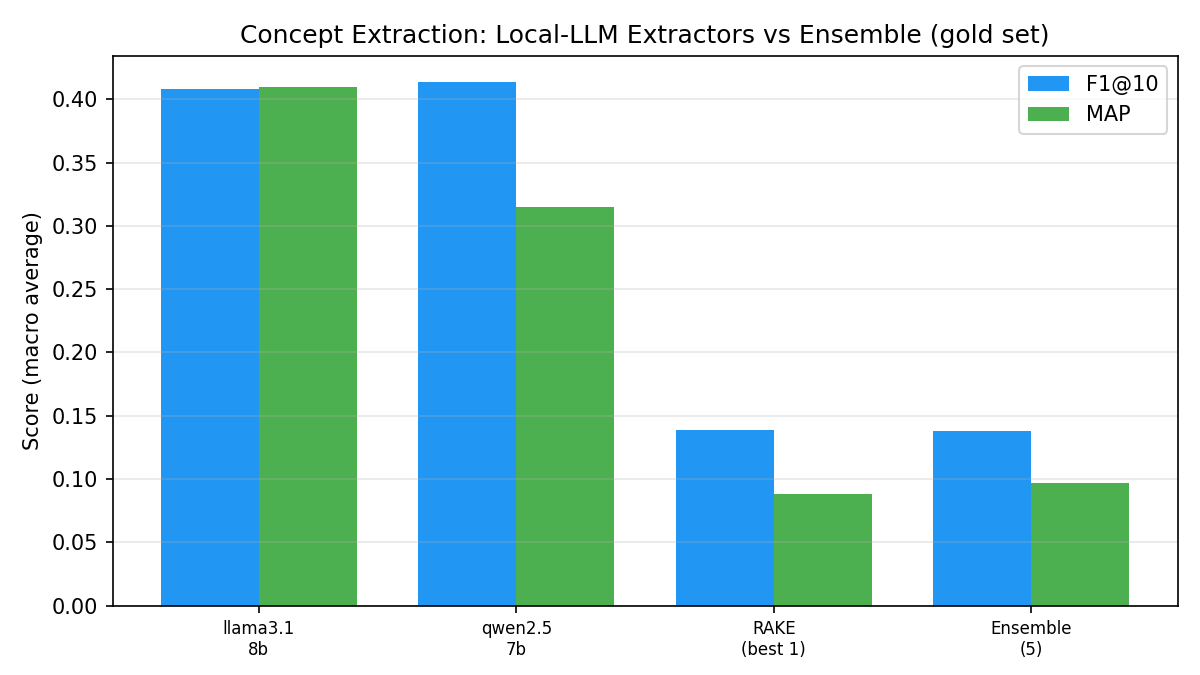
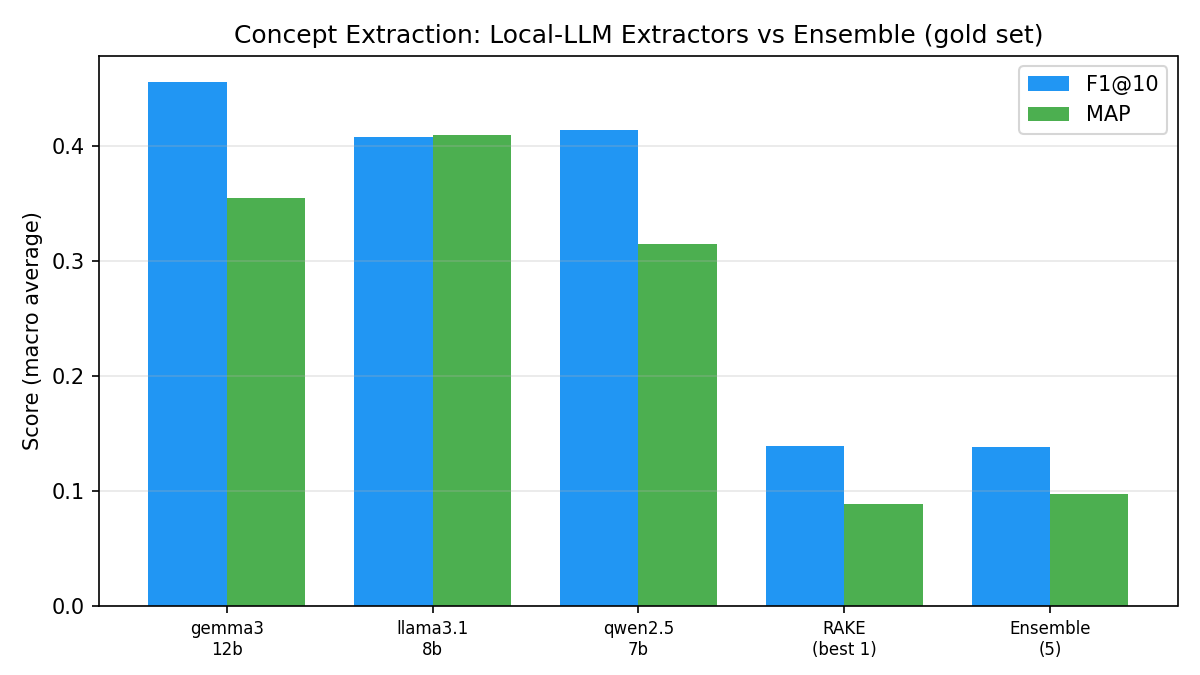
Add gemma3 comparison, filter-ablation flag, DB-namespaced graph cache, and mypy fixes

diff --git a/scripts/run_nlp_pipeline.py b/scripts/run_nlp_pipeline.py
@@ -122,13 +122,16 @@ def run_pipeline(top_n: int = 20) -> dict:
     return results
 
 
-def run_week2_pipeline(top_n: int = 20, enable_llm: bool = False) -> dict:
+def run_week2_pipeline(
+    top_n: int = 20, enable_llm: bool = False, specificity_filter: bool = True
+) -> dict:
     """Full Week-2 pipeline: 5 extractors + SBERT canonicalization.
 
     With ``enable_llm`` a sixth local-LLM extractor is added (requires Ollama).
+    ``specificity_filter=False`` disables the generic-term filter (for ablation).
     """
     from curriculum_mapper.nlp.pipeline import NLPPipeline
-    pipeline = NLPPipeline(enable_llm=enable_llm)
+    pipeline = NLPPipeline(enable_llm=enable_llm, apply_specificity_filter=specificity_filter)
     return pipeline.run(top_n=top_n)
 
 
@@ -138,6 +141,8 @@ def main() -> None:
                         help="Use full Week-2 pipeline (KeyBERT+BERTopic+canonicalization)")
     parser.add_argument("--llm", action="store_true",
                         help="Add the optional local-LLM extractor (requires Ollama)")
+    parser.add_argument("--no-specificity-filter", action="store_true",
+                        help="Disable the generic-term specificity filter (for ablation)")
     parser.add_argument("--top-n", type=int, default=20, help="Top-N per extractor")
     parser.add_argument("--verbose", action="store_true")
     args = parser.parse_args()
@@ -147,7 +152,10 @@ def main() -> None:
 
     if args.week2:
         logger.info("Running Week-2 pipeline (all 5 extractors + canonicalization)…")
-        results = run_week2_pipeline(top_n=args.top_n, enable_llm=args.llm)
+        results = run_week2_pipeline(
+            top_n=args.top_n, enable_llm=args.llm,
+            specificity_filter=not args.no_specificity_filter,
+        )
     else:
         logger.info("Running Week-1 baseline pipeline (TF-IDF + RAKE + TextRank)…")
         results = run_pipeline(top_n=args.top_n)

diff --git a/tests/unit/test_llm_extractor.py b/tests/unit/test_llm_extractor.py
@@ -106,3 +106,44 @@ class TestLLMCache:
         assert [t for t, _ in out1] == ["hash table", "b tree"]
         assert out1 == out2
         assert client.calls == 1  # second call served from cache
+
+
+class _PingClient:
+    def __init__(self, ok=True):
+        self._ok = ok
+
+    def list(self):
+        if not self._ok:
+            raise RuntimeError("server down")
+        return {"models": []}
+
+    def chat(self, *a, **k):
+        return {"message": {"content": "[]"}}
+
+
+class _ObjResp:
+    """Mimics ollama's object-style response (resp.message.content)."""
+    class _M:
+        content = '["b tree", "red black tree"]'
+    message = _M()
+
+
+class TestLLMExtractorBranches:
+    def test_ping_true_and_false(self):
+        assert LLMExtractor(client=_PingClient(ok=True)).ping() is True
+        assert LLMExtractor(client=_PingClient(ok=False)).ping() is False
+
+    def test_object_style_response(self):
+        class _C:
+            def chat(self, *a, **k):
+                return _ObjResp()
+        out = LLMExtractor(client=_C(), use_cache=False).extract("trees module", top_n=10)
+        assert [t for t, _ in out] == ["b tree", "red black tree"]
+
+    def test_corrupt_cache_falls_back(self, tmp_path, monkeypatch):
+        import curriculum_mapper.nlp.extractors.llm_extractor as mod
+        monkeypatch.setattr(mod, "LLM_CACHE", tmp_path)
+        ex = mod.LLMExtractor(client=_FakeClient('["hashing"]'), use_cache=True)
+        # Pre-write a corrupt cache file for this text → should ignore and re-query.
+        ex._cache_path("xyz").write_text("{not json")
+        assert [t for t, _ in ex.extract("xyz", top_n=5)] == ["hashing"]

diff --git a/curriculum_mapper/api/dependencies.py b/curriculum_mapper/api/dependencies.py
@@ -3,10 +3,10 @@
 from __future__ import annotations
 
 import json
-import pickle
 from functools import lru_cache
 
-from curriculum_mapper.config import GRAPH_CACHE, PROCESSED_DIR, STANDARDS_DIR
+from curriculum_mapper.config import GRAPH_STATS_PATH, STANDARDS_DIR
+from curriculum_mapper.graph.builder import load_graph
 from curriculum_mapper.ingestion.storage import StorageManager
 
 
@@ -23,33 +23,25 @@ def get_ka_data() -> dict:
 
 
 def get_graph_module_module():
-    """Load cached module-module NetworkX graph (None if not built yet)."""
-    p = GRAPH_CACHE / "module_module.pkl"
-    if not p.exists():
-        return None
-    with open(p, "rb") as f:
-        return pickle.load(f)
+    """Load cached module-module NetworkX graph (None if not built yet).
+
+    Uses the DB-namespaced cache via ``builder.load_graph`` so the API and the
+    build step always agree on the location.
+    """
+    return load_graph("module_module")
 
 
 def get_graph_bipartite():
-    p = GRAPH_CACHE / "bipartite.pkl"
-    if not p.exists():
-        return None
-    with open(p, "rb") as f:
-        return pickle.load(f)
+    return load_graph("bipartite")
 
 
 def get_graph_concept_acm():
-    p = GRAPH_CACHE / "concept_acm.pkl"
-    if not p.exists():
-        return None
-    with open(p, "rb") as f:
-        return pickle.load(f)
+    return load_graph("concept_acm")
 
 
 def get_graph_stats() -> dict | None:
     """Load pre-computed graph stats (built by build_graph.py)."""
-    p = PROCESSED_DIR / "graph_stats.json"
+    p = GRAPH_STATS_PATH
     if not p.exists():
         return None
     with open(p) as f:

diff --git a/curriculum_mapper/evaluation/reports.py b/curriculum_mapper/evaluation/reports.py
@@ -561,7 +561,7 @@ def generate_figures(results: dict) -> list[Path]:
     if perturb:
         try:
             fr = sorted(perturb.keys(), key=float)
-            x = [float(f) * 100 for f in fr]
+            xpct = [float(f) * 100 for f in fr]
             base = perturb[fr[0]]
 
             def _pct(key):
@@ -569,10 +569,10 @@ def generate_figures(results: dict) -> list[Path]:
                 return [100.0 * perturb[f][key] / b for f in fr]
 
             fig, ax = plt.subplots(figsize=(7, 4))
-            ax.plot(x, _pct("mm_edges"), "o-", color="#2196F3", label="Module–module edges")
-            ax.plot(x, _pct("covered_kas"), "s-", color="#4CAF50", label="Covered KAs")
-            ax.plot(x, _pct("redundancy_count"), "^--", color="#FF5722", label="Redundancies")
-            ax.plot(x, _pct("n_communities"), "d:", color="#9C27B0", label="Communities")
+            ax.plot(xpct, _pct("mm_edges"), "o-", color="#2196F3", label="Module–module edges")
+            ax.plot(xpct, _pct("covered_kas"), "s-", color="#4CAF50", label="Covered KAs")
+            ax.plot(xpct, _pct("redundancy_count"), "^--", color="#FF5722", label="Redundancies")
+            ax.plot(xpct, _pct("n_communities"), "d:", color="#9C27B0", label="Communities")
             ax.set_xlabel("Lowest-confidence concepts removed (%)")
             ax.set_ylabel("Retained, % of full-pipeline value")
             ax.set_title("Curriculum-Diagnostic Robustness to Concept Pruning")

diff --git a/tests/unit/test_benchmarks.py b/tests/unit/test_benchmarks.py
@@ -343,3 +343,30 @@ class TestRunAll:
         result = runner.run_all()
         assert "extraction" in result
         assert "alignment" in result
+
+
+class TestLLMModelComparison:
+    def test_skips_unavailable_and_runs_available(self, gold_file, monkeypatch):
+        import curriculum_mapper.nlp.extractors.llm_extractor as llm_mod
+        from curriculum_mapper.ingestion.schema import ModuleDescriptor
+
+        class _FakeLLMEx:
+            def __init__(self, model="m", **k):
+                self.model = model
+                self.is_available = model != "down:model"
+
+            def ping(self):
+                return self.is_available
+
+            def extract(self, text, top_n=20):
+                return [("sorting algorithms", 1.0), ("binary search", 0.8)]
+
+        monkeypatch.setattr(llm_mod, "LLMExtractor", _FakeLLMEx)
+        mod = ModuleDescriptor(code="MOD001", title="Algorithms", level=2, credits=8,
+                               prerequisites=[], description="sorting and search", ilos=[],
+                               topics=[], source="institutional", source_file="MOD001.json")
+        storage = _make_storage()
+        storage.get_all_modules.return_value = [mod]
+        runner = BenchmarkRunner(storage, _make_flexible_em(), gold_path=gold_file)
+        out = runner.run_llm_model_comparison(["good:model", "down:model"], ks=[5, 10])
+        assert "good:model" in out and "down:model" not in out

diff --git a/scripts/run_evaluation.py b/scripts/run_evaluation.py
@@ -27,7 +27,7 @@ from pathlib import Path
 
 sys.path.insert(0, str(Path(__file__).parent.parent))
 
-from curriculum_mapper.config import PROCESSED_DIR
+from curriculum_mapper.config import GRAPH_STATS_PATH
 from curriculum_mapper.evaluation.benchmarks import BenchmarkRunner
 from curriculum_mapper.evaluation.reports import (
     generate_figures,
@@ -157,7 +157,11 @@ def main() -> None:
         from curriculum_mapper.nlp.extractors.llm_extractor import LLMExtractor
         probe = LLMExtractor()
         if probe.is_available and probe.ping():
-            models = ["llama3.1:8b", "qwen2.5:7b"] if args.llm_compare else [LLM_MODEL]
+            # Candidate models for selection; unavailable ones are skipped.
+            models = (
+                ["llama3.1:8b", "qwen2.5:7b", "gemma3:12b"]
+                if args.llm_compare else [LLM_MODEL]
+            )
             logger.info(f"Running LLM extraction benchmark for: {models}")
             comp = runner.run_llm_model_comparison(models)
             if comp:
@@ -172,7 +176,7 @@ def main() -> None:
             logger.warning("LLM requested but Ollama server unreachable; skipping LLM benchmark.")
 
     # Attach graph stats
-    graph_stats_path = PROCESSED_DIR / "graph_stats.json"
+    graph_stats_path = GRAPH_STATS_PATH
     if graph_stats_path.exists():
         with open(graph_stats_path) as f:
             gs = json.load(f)

diff --git a/curriculum_mapper/nlp/pipeline.py b/curriculum_mapper/nlp/pipeline.py
@@ -78,8 +78,13 @@ def _is_generic_candidate(term: str) -> bool:
 class NLPPipeline:
     """Full five-extractor NLP pipeline with canonicalization."""
 
-    def __init__(self, enable_llm: bool | None = None) -> None:
+    def __init__(
+        self,
+        enable_llm: bool | None = None,
+        apply_specificity_filter: bool = True,
+    ) -> None:
         logger.info("Initialising NLP pipeline…")
+        self.apply_specificity_filter = apply_specificity_filter
         self.storage = StorageManager()
         self.em = EmbeddingManager()
         self.tfidf = TFIDFExtractor()
@@ -171,7 +176,8 @@ class NLPPipeline:
             length_filtered = {
                 t: s
                 for t, s in candidates.items()
-                if len(t) >= 3 and not _is_generic_candidate(t)
+                if len(t) >= 3
+                and (not self.apply_specificity_filter or not _is_generic_candidate(t))
             }
             all_candidates[module.code] = self._filter_noun_headed(length_filtered)
 

diff --git a/scripts/build_graph.py b/scripts/build_graph.py
@@ -26,7 +26,7 @@ from pathlib import Path
 
 sys.path.insert(0, str(Path(__file__).parent.parent))
 
-from curriculum_mapper.config import PROCESSED_DIR, STANDARDS_DIR
+from curriculum_mapper.config import GRAPH_STATS_PATH, PROCESSED_DIR, STANDARDS_DIR
 from curriculum_mapper.graph.analytics import (
     compute_centrality,
     compute_ka_coverage_full,
@@ -160,7 +160,7 @@ def main() -> None:
         "communities": {str(k): v for k, v in communities.items()},
     }
 
-    stats_path = PROCESSED_DIR / "graph_stats.json"
+    stats_path = GRAPH_STATS_PATH
     with open(stats_path, "w") as f:
         json.dump(graph_stats, f, indent=2)
     logger.info(f"  Graph stats saved to {stats_path}")

diff --git a/curriculum_mapper/graph/builder.py b/curriculum_mapper/graph/builder.py
@@ -26,6 +26,7 @@ from pathlib import Path
 import networkx as nx
 
 from curriculum_mapper.config import (
+    DB_PATH,
     GRAPH_CACHE,
     SHARED_CONCEPT_EDGE_MIN,
 )
@@ -39,7 +40,12 @@ logger = logging.getLogger(__name__)
 
 
 def _cache_path(name: str) -> Path:
-    return GRAPH_CACHE / f"{name}.pkl"
+    # Namespace the cache by the database stem so that running the pipeline on a
+    # different database (e.g. the LLM-augmented curriculum_llm.db) does not
+    # clobber the canonical graph pickles.
+    cache_dir = GRAPH_CACHE / DB_PATH.stem
+    cache_dir.mkdir(parents=True, exist_ok=True)
+    return cache_dir / f"{name}.pkl"
 
 
 def _save_graph(G: nx.Graph, name: str) -> None:

diff --git a/curriculum_mapper/ingestion/loader.py b/curriculum_mapper/ingestion/loader.py
@@ -165,12 +165,14 @@ def load_from_pdf(path: Path) -> Optional[ModuleDescriptor]:
     prereqs = [p.strip() for p in re.split(r"[,;]", prereq_text) if p.strip()] if prereq_text else []
 
     try:
-        level = int(re.search(r"\d", level_str).group()) if re.search(r"\d", level_str) else 1
+        _m = re.search(r"\d", level_str)
+        level = int(_m.group()) if _m else 1
     except Exception:
         level = 1
 
     try:
-        credits = int(re.search(r"\d+", credits_str).group()) if re.search(r"\d+", credits_str) else 0
+        _mc = re.search(r"\d+", credits_str)
+        credits = int(_mc.group()) if _mc else 0
     except Exception:
         credits = 0
 

diff --git a/tests/unit/test_graph.py b/tests/unit/test_graph.py
@@ -395,3 +395,14 @@ class TestInferPrerequisites:
         if len(inferred) >= 2:
             scores = [s for _, _, s in inferred]
             assert scores[0] >= scores[1]
+
+
+class TestCacheNamespacing:
+    def test_cache_path_namespaced_by_db_stem(self):
+        from curriculum_mapper.config import DB_PATH
+        from curriculum_mapper.graph.builder import _cache_path
+        p = _cache_path("module_module")
+        # Pickle lives under a directory named after the DB stem, isolating
+        # canonical and LLM-augmented graphs.
+        assert p.parent.name == DB_PATH.stem
+        assert p.name == "module_module.pkl"

diff --git a/curriculum_mapper/config.py b/curriculum_mapper/config.py
@@ -21,6 +21,10 @@ LLM_CACHE = CACHE_DIR / "llm"
 PROCESSED_DIR = DATA_DIR / "processed"
 ANNOTATIONS_DIR = DATA_DIR / "annotations"
 FIGURES_DIR = PROCESSED_DIR / "figures"
+# Graph statistics are namespaced by the database stem so that running the
+# pipeline on a different DB (e.g. the LLM-augmented one) does not overwrite the
+# canonical stats consumed by the API.
+GRAPH_STATS_PATH = PROCESSED_DIR / f"graph_stats_{DB_PATH.stem}.json"
 
 # Ensure critical dirs exist at import time
 for _d in [DATA_DIR, CACHE_DIR, EMBEDDING_CACHE, GRAPH_CACHE, LLM_CACHE, PROCESSED_DIR,
